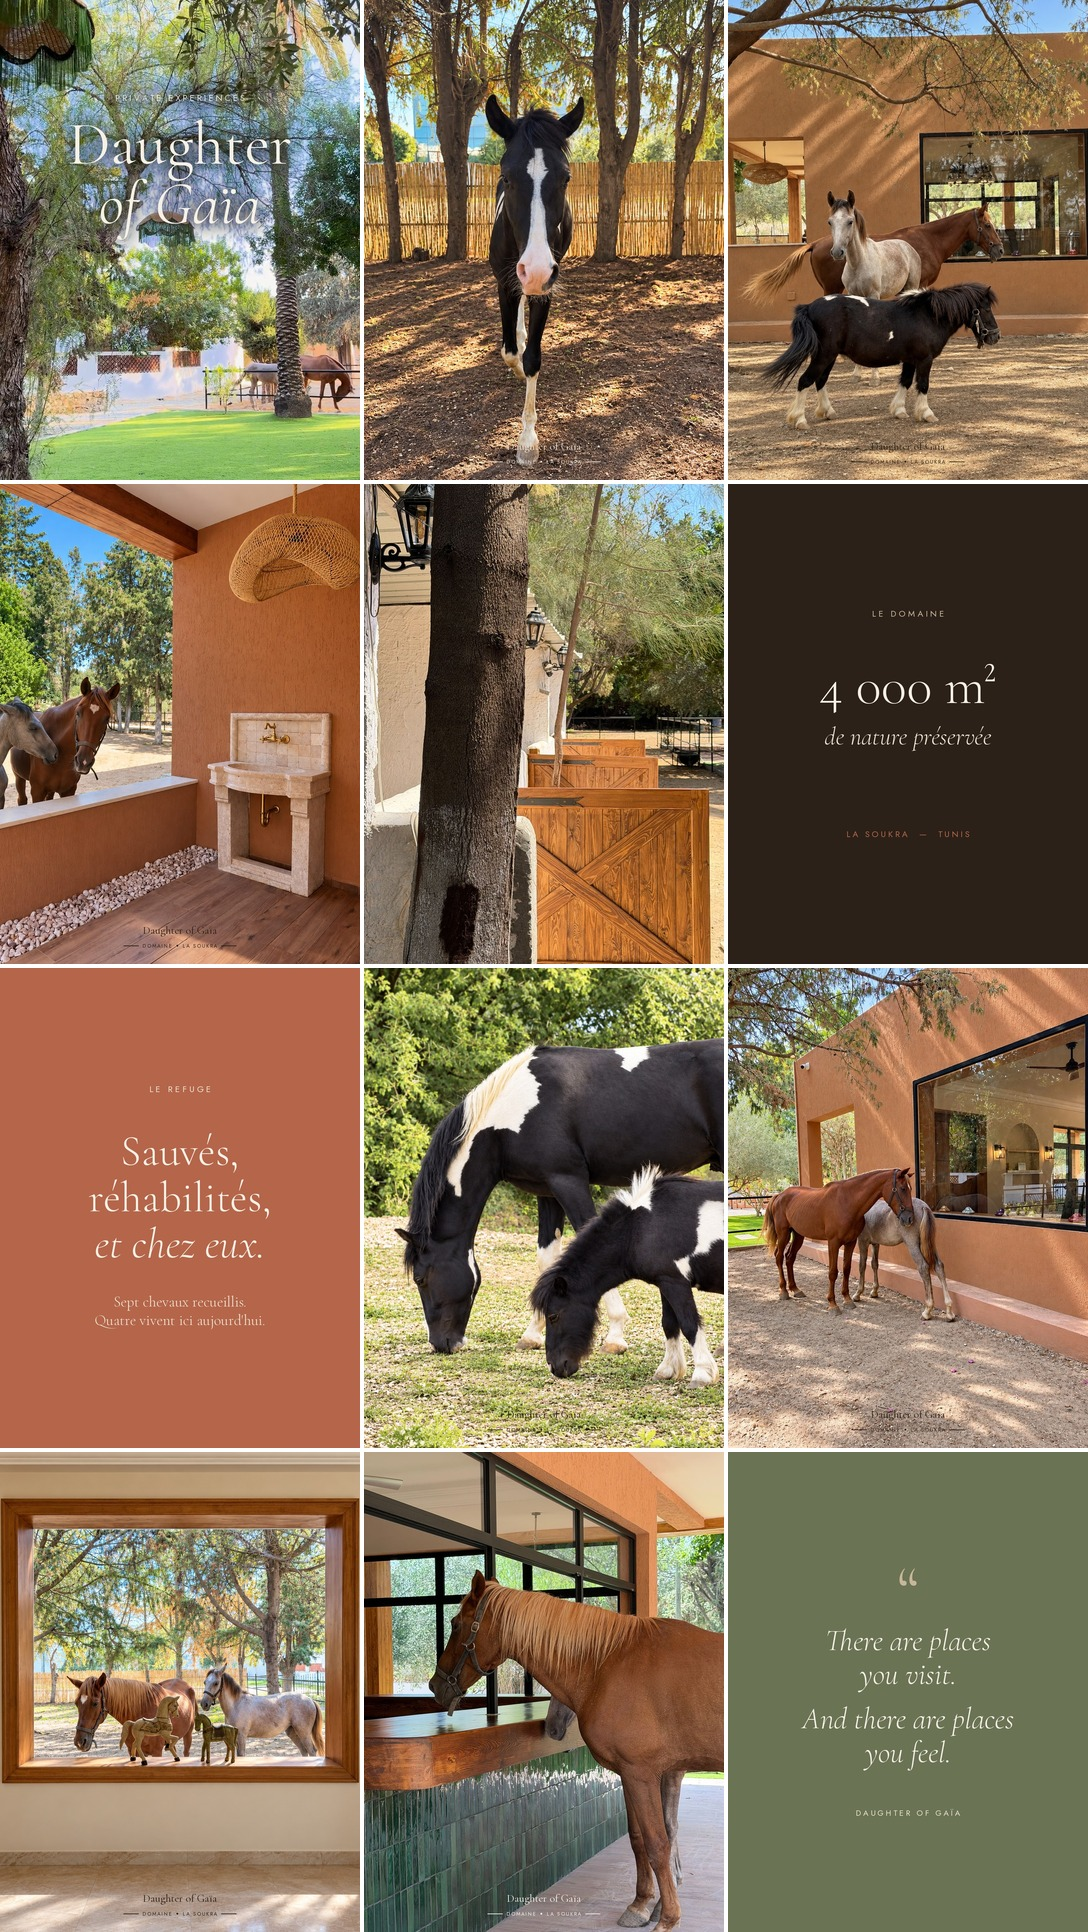
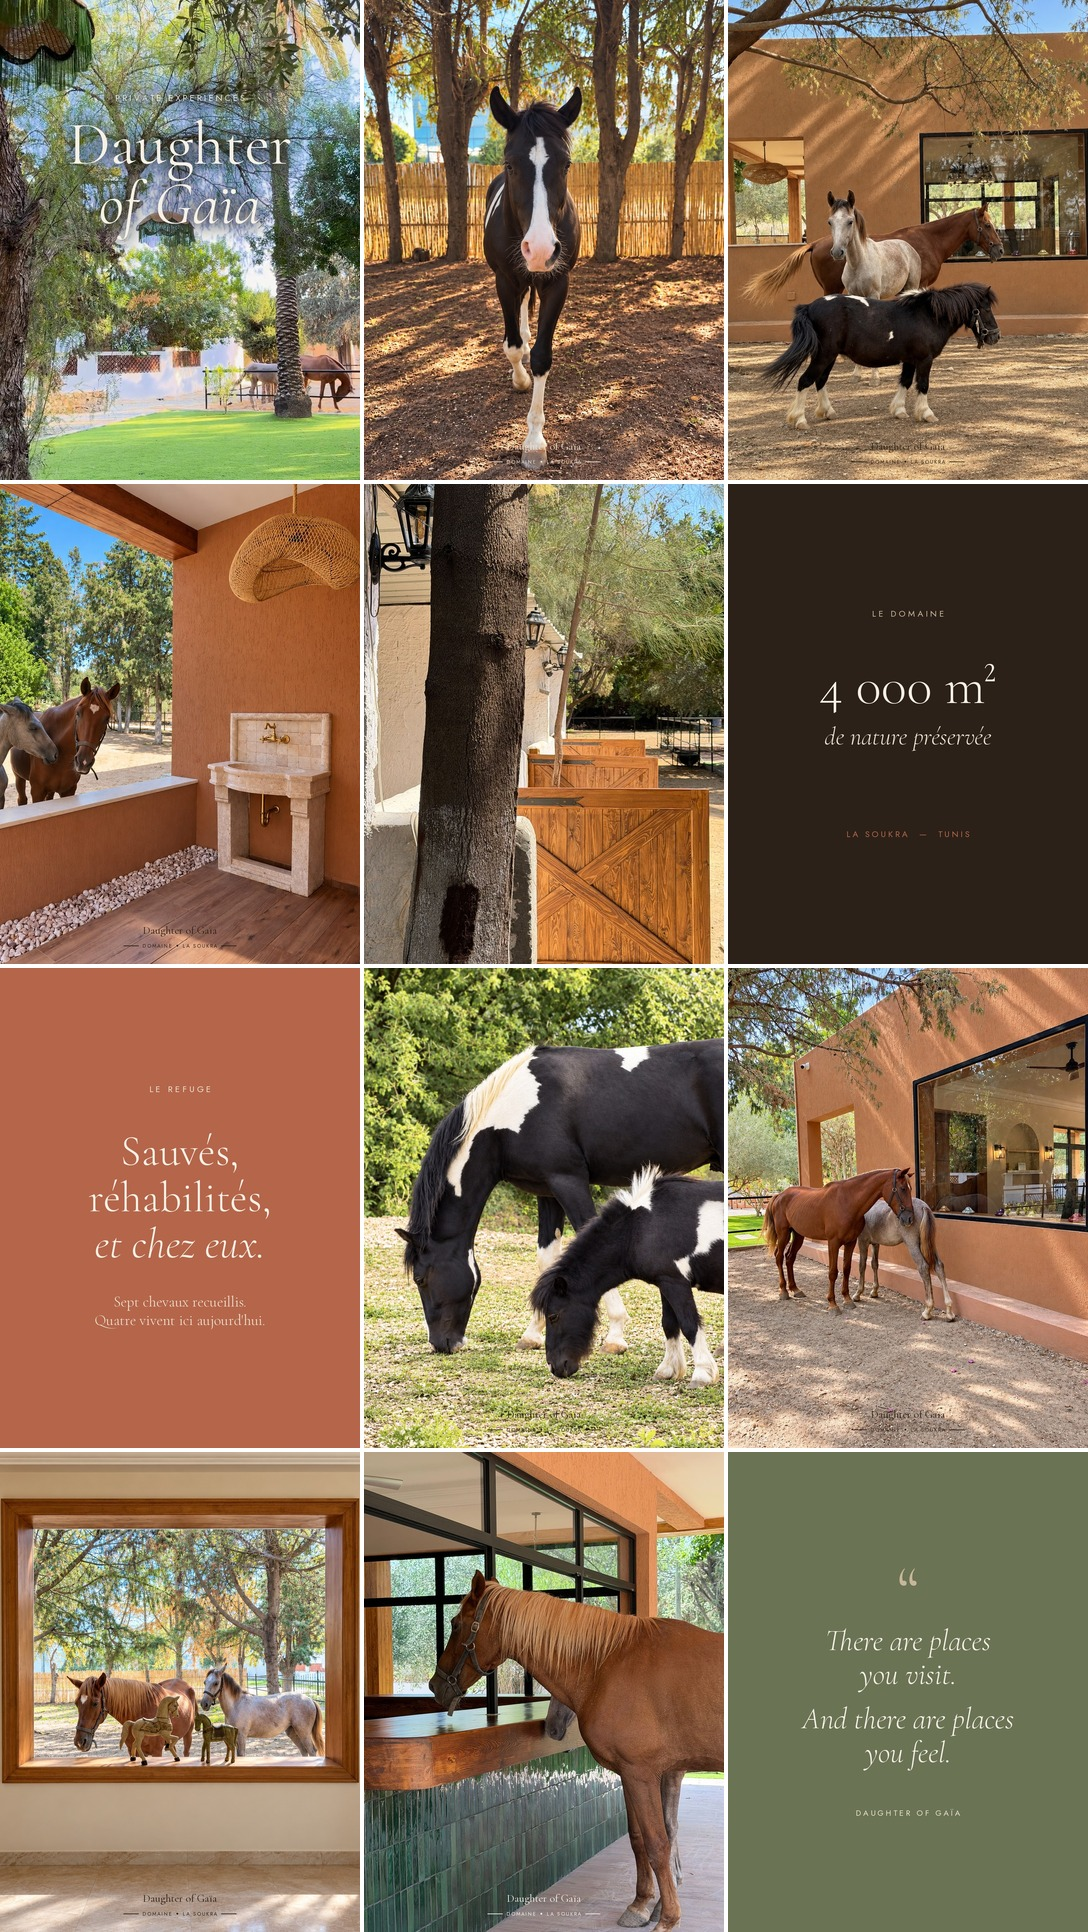
Nouvelle photo d'Aïko pour le post 11, cadrée pour dégager la signature
Claude-Session: https://claude.ai/code/session_01MS2dviwewWZA4sauzwea3X

Changed region(s): [[0.3125, 0.0, 0.6875, 0.2484]]

diff --git a/instagram/generer.py b/instagram/generer.py
@@ -268,7 +268,7 @@ LANCEMENT = [
     ("ecuries", ("domaine.jpg", (0.5, 0.6))),
     ("terrasse-vasque", ("terrasse-vasque.jpg", (0.5, 0.5))),
     ("trois-chevaux", ("trois-chevaux.jpg", (0.5, 0.6))),
-    ("cheval-noir-blanc", ("cheval-noir-blanc.jpg", (0.5, 0.45))),
+    ("cheval-noir-blanc", ("aiko.jpg", (0.5, 1.0))),
     ("daughter-of-gaia", nom_du_projet),
 ]
 
